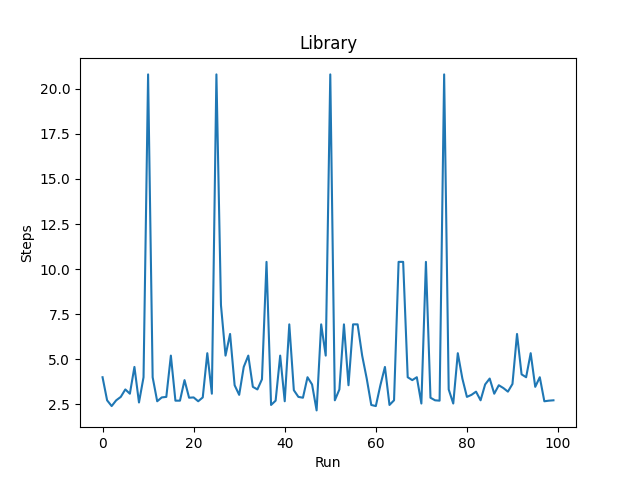
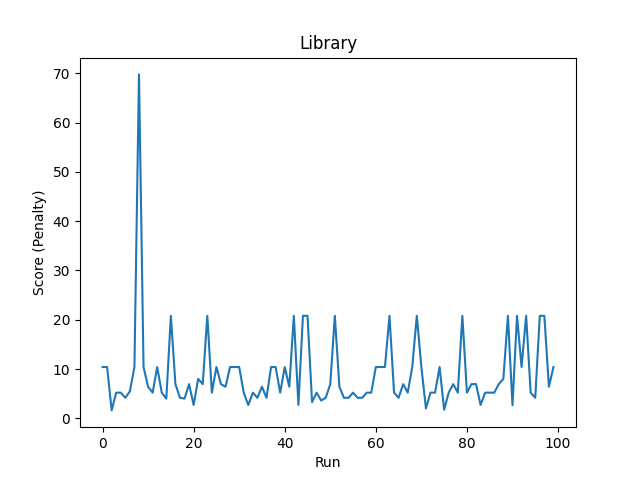
updating status and completing the basics

diff --git a/MalmoPlatform/Malmo/samples/Python_examples/library/main.py b/MalmoPlatform/Malmo/samples/Python_examples/library/main.py
@@ -35,8 +35,6 @@ from numpy.random import randint
 agent_position = 0
 num_moves = 0
 
-diamond_distribution = 0.2;
-
 
 def GetMissionXML(obs_size):
     leftX = obs_size * 2 + 2
@@ -383,16 +381,14 @@ def testRun(agent_host):
     time.sleep(1)
 
 
-def fillRandomInput(inputs):
-    global diamond_distribution
-
-    input_stream = [];
+def fillRandomInput(inputs, distribution):
+    input_stream = []
     for x in range(inputs):
         appendValue = ""
-        if randint(101) / 100 < diamond_distribution:
-            appendValue += "diamond:{}".format(randint(5) + 1)
-        else:
-            appendValue += "stone:{}".format(randint(20) + 1)
+        for item, prob in distribution:
+            if random() < prob:
+                appendValue += f"{item}:{randint(5) + 1 }"
+                break
         input_stream.append(appendValue)
     return input_stream
 
@@ -429,7 +425,7 @@ if __name__ == '__main__':
     runMode = input("Enter r to generate random values and u to input user values: ")
     if runMode == "r":
         trackSteps = []
-        userInput = fillRandomInput(100)
+        userInput = fillRandomInput(100, itemDist)
         print(userInput)
         for toRetrieve in userInput:
             size = 50
@@ -499,7 +495,7 @@ if __name__ == '__main__':
         plt.clf()
         plt.plot(trackSteps)
         plt.title('Library')
-        plt.ylabel('Steps')
+        plt.ylabel('Score (Penalty)')
         plt.xlabel('Run')
         plt.savefig('returnsfinalpart.png')
     else:

diff --git a/docs/status.md b/docs/status.md
@@ -47,10 +47,54 @@ simulated user giving one command to gather a certain amount of materials 100 ti
 based on the amount of items requested and the distribution of the materials. Our agent manages to properly retrieve 
 the items of the request and returns them to the chest, fulfilling our qualitative requirements setup.
 
+As you can see below, depending on what is requested for (see the "Retrieving..." section of the 1st screenshot), 
+it can pick the selections needed and will ultimately distribute it to the result chest (see the second screenshot ).
+This is our first qualitative runtime test, testing that it can properly perform given a single request, issued for a 
+single item over a simple test case.
+
+<img src="static/runtimeScreenShot.png" style="width:1000px;"/>
+<img src="static/runtimeScreenShot2.png" style="width:1000px;"/>
+
+
+In a more complex (and practical) case, we also are able to respond to multiple requests for multiple materials, shown
+in the photo below during collection, and after results are placed in the resulting chest
+
+
 ### Quantitative
-The 
+In terms of quantitative analysis, we did a plot of the runtime performance. How exactly we scored the system was as 
+follows:  
+- Every step has a score of 1  
+To calculate the score we used the following formula to normalize it for all inputs:  
+$$ \sum_x\frac{(score)(P_x)}{(n_x)} $$  
+Where 
+- score = score of steps
+- P_x = probability of given item x to be selected (given to us as the probability distribution)
+- n_x = number of times given item x was requested
+
+The runtime graph is shown below, however, due to the lack of optimizations it seems eratic and spikes every so often 
+without any improvements -- definitely a place for improvement.
+
+<img src="static/bruteForceWithProblems.png" style="width:1000px;"/>
 
 ## Future Plans
 Currently, we have essentially created a very simple case that would (theoretically) be the fastest traversal over all 
-chests. However,
+chests. However, in the future, we plan on implementing two key changes -- first our runtimes will be over a selected
+time frame, and the agent will be allowed to "remember" their past actions. Second, we plan on implementing a new 
+approach -- we have been looking into the Multi-Armed Bandit problem for possible implementation ideas, and other
+exploration vs exploitation possible traversal algorithms that may assist in our algorithm to help with creating 
+improvement.
+
+Below is a graph with a new scoring system, adding penalty for opening chests to encourage more direct findings of 
+better chests to choose from, and subsequently better results.
+
+<img src="static/statusBruteForcePerformance.png" style="width:1000px;"/>
+
 ## Resources
+We used some malmo documentation found in [here for XML](https://microsoft.github.io/malmo/0.21.0/Schemas/MissionHandlers.html) and 
+[for agents](http://microsoft.github.io/malmo/0.30.0/Documentation/annotated.html) 
+
+For the Multi-Armed Bandit problem, see [here](https://towardsdatascience.com/solving-the-multi-armed-bandit-problem-b72de40db97c)
+for an excellent explanation
+
+Also, a great deal of thanks to Professor Singh and his wonderful TA Mr.Nottingham for providing guidance, and all those
+who contributed to Campuswire
